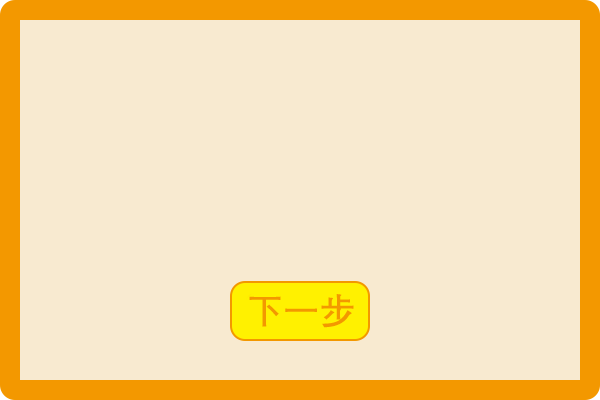
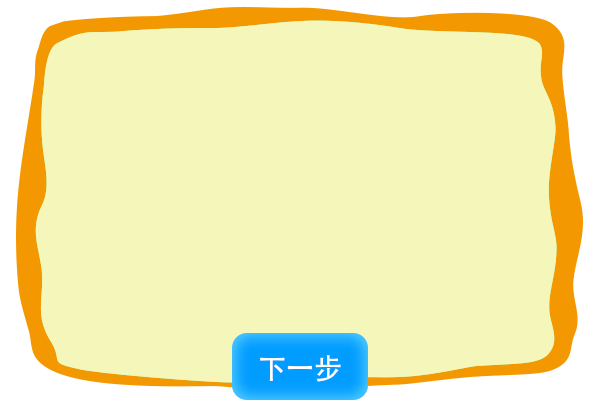
添加对话窗口npc头像

diff --git a/runtime/out/map.js b/runtime/out/map.js
@@ -83,9 +83,11 @@ var GameMap = /** @class */ (function (_super) {
                 this.roleContainer.addChild(monsterView);
             }
             if (item.npc == NPC) {
-                var npcView = new Bitmap(TILE_SIZE * item.x, TILE_SIZE * item.y, gjl);
-                var npcItem = new Npc(1, 'DDF'); // TODO
+                var npcView = new Bitmap(TILE_SIZE * item.x, TILE_SIZE * item.y, gaojianli);
+                var npcHead = new Bitmap(0, 0, gaojianli_head);
+                var npcItem = new Npc(1, '高渐离'); // TODO
                 npcItem.view = npcView;
+                npcItem.head = npcHead;
                 npcItem.x = item.x;
                 npcItem.y = item.y;
                 var key = item.x + '_' + item.y;
@@ -93,9 +95,11 @@ var GameMap = /** @class */ (function (_super) {
                 this.roleContainer.addChild(npcView);
             }
             if (item.npc == NPC2) {
-                var npcView = new Bitmap(TILE_SIZE * item.x, TILE_SIZE * item.y, gjl);
-                var npcItem = new Npc(2, 'DDF'); // TODO
+                var npcView = new Bitmap(TILE_SIZE * item.x, TILE_SIZE * item.y, yingzheng);
+                var npcHead = new Bitmap(0, 0, yingzheng_head);
+                var npcItem = new Npc(2, '嬴政'); // TODO
                 npcItem.view = npcView;
+                npcItem.head = npcHead;
                 npcItem.x = item.x;
                 npcItem.y = item.y;
                 var key = item.x + '_' + item.y;

diff --git a/runtime/src/map.ts b/runtime/src/map.ts
@@ -83,9 +83,11 @@ class GameMap extends DisplayObjectContainer {
             }
 
             if (item.npc == NPC) {
-                const npcView = new Bitmap(TILE_SIZE * item.x, TILE_SIZE * item.y, gjl);
-                const npcItem = new Npc(1, 'DDF'); // TODO
+                const npcView = new Bitmap(TILE_SIZE * item.x, TILE_SIZE * item.y, gaojianli);
+                const npcHead = new Bitmap(0, 0, gaojianli_head);
+                const npcItem = new Npc(1, '高渐离'); // TODO
                 npcItem.view = npcView;
+                npcItem.head = npcHead;
                 npcItem.x = item.x;
                 npcItem.y = item.y;
                 const key = item.x + '_' + item.y;
@@ -93,9 +95,11 @@ class GameMap extends DisplayObjectContainer {
                 this.roleContainer.addChild(npcView);
             }
             if (item.npc == NPC2) {
-                const npcView = new Bitmap(TILE_SIZE * item.x, TILE_SIZE * item.y, gjl);
-                const npcItem = new Npc(2, 'DDF'); // TODO
+                const npcView = new Bitmap(TILE_SIZE * item.x, TILE_SIZE * item.y, yingzheng);
+                const npcHead = new Bitmap(0, 0, yingzheng_head);
+                const npcItem = new Npc(2, '嬴政'); // TODO
                 npcItem.view = npcView;
+                npcItem.head = npcHead;
                 npcItem.x = item.x;
                 npcItem.y = item.y;
                 const key = item.x + '_' + item.y;

diff --git a/runtime/out/talkWindow.js b/runtime/out/talkWindow.js
@@ -18,7 +18,7 @@ var TalkWindow = /** @class */ (function (_super) {
         var _this = _super.call(this, x, y) || this;
         _this.count = 0;
         _this.view = new Bitmap(0, 0, talk_window);
-        _this.text = new TextField("", 100, 150, 40);
+        _this.text = new TextField("", 100, 200, 24);
         _this.addChild(_this.view);
         _this.addChild(_this.text);
         _this.addEventListener("onClick", function (eventData) {
@@ -41,6 +41,18 @@ var TalkWindow = /** @class */ (function (_super) {
         else {
             this.text.text = contents[this.count];
         }
+    };
+    TalkWindow.prototype.initNpcInfo = function () {
+        this.head = this.npc.head;
+        this.head.x = 60;
+        this.head.y = 60;
+        this.name = new TextField(this.npc.name, 180, 100, 20);
+        this.addChild(this.head);
+        this.addChild(this.name);
+    };
+    TalkWindow.prototype.setNpc = function (npc) {
+        this.npc = npc;
+        this.initNpcInfo();
     };
     TalkWindow.prototype.setMission = function (mission) {
         this.mission = mission;

diff --git a/runtime/src/talkWindow.ts b/runtime/src/talkWindow.ts
@@ -3,7 +3,14 @@
  */
 class TalkWindow extends DisplayObjectContainer {
     view: Bitmap;
+
+    head: Bitmap;
+
+    name: TextField;
+
     text: TextField;
+
+    npc: Npc;
 
     mission: Mission;
 
@@ -13,7 +20,7 @@ class TalkWindow extends DisplayObjectContainer {
         super(x, y);
 
         this.view = new Bitmap(0, 0, talk_window);
-        this.text = new TextField("", 100, 150, 40);
+        this.text = new TextField("", 100, 200, 24);
 
         this.addChild(this.view);
         this.addChild(this.text);
@@ -39,6 +46,20 @@ class TalkWindow extends DisplayObjectContainer {
         } else {
             this.text.text = contents[this.count];
         }
+    }
+
+    initNpcInfo() {
+        this.head = this.npc.head;
+        this.head.x = 60;
+        this.head.y = 60;
+        this.name = new TextField(this.npc.name, 180, 100, 20);
+        this.addChild(this.head);
+        this.addChild(this.name);
+    }
+
+    setNpc(npc: Npc) {
+        this.npc = npc;
+        this.initNpcInfo();
     }
 
     setMission(mission: Mission) {

diff --git a/runtime/out/game.js b/runtime/out/game.js
@@ -33,8 +33,14 @@ var wall_middle = new Image();
 wall_middle.src = './assets/wall_middle.png';
 var wall_right = new Image();
 wall_right.src = './assets/wall_right.png';
-var gjl = new Image();
-gjl.src = './assets/npc.png';
+var gaojianli = new Image();
+gaojianli.src = './assets/gaojianli.png';
+var gaojianli_head = new Image();
+gaojianli_head.src = './assets/gaojianli_head.png';
+var yingzheng = new Image();
+yingzheng.src = './assets/yingzheng.png';
+var yingzheng_head = new Image();
+yingzheng_head.src = './assets/yingzheng_head.png';
 var captain = new Image();
 captain.src = './assets/monster.png';
 var talk_window = new Image();

diff --git a/runtime/src/game.ts b/runtime/src/game.ts
@@ -22,8 +22,14 @@ var wall_middle = new Image();
 wall_middle.src = './assets/wall_middle.png';
 var wall_right = new Image();
 wall_right.src = './assets/wall_right.png';
-var gjl = new Image();
-gjl.src = './assets/npc.png';
+var gaojianli = new Image();
+gaojianli.src = './assets/gaojianli.png';
+var gaojianli_head = new Image();
+gaojianli_head.src = './assets/gaojianli_head.png';
+var yingzheng = new Image();
+yingzheng.src = './assets/yingzheng.png';
+var yingzheng_head = new Image();
+yingzheng_head.src = './assets/yingzheng_head.png';
 var captain = new Image();
 captain.src = './assets/monster.png';
 var talk_window = new Image();

diff --git a/runtime/out/command.js b/runtime/out/command.js
@@ -103,6 +103,7 @@ var TalkCommand = /** @class */ (function (_super) {
             var talkWindow_1 = new TalkWindow(100, 150);
             talkUIContainer.addChild(talkWindow_1);
             talkWindow_1.setMission(mission);
+            talkWindow_1.setNpc(this.npc);
             talkWindow_1.addEventListener("talkWiondowClose", function () {
                 talkUIContainer.deleteChild(talkWindow_1);
                 if (mission) {

diff --git a/runtime/src/command.ts b/runtime/src/command.ts
@@ -106,6 +106,7 @@ class TalkCommand extends Command {
             const talkWindow = new TalkWindow(100, 150);
             talkUIContainer.addChild(talkWindow);
             talkWindow.setMission(mission);
+            talkWindow.setNpc(this.npc);
             talkWindow.addEventListener("talkWiondowClose", () => {
                 talkUIContainer.deleteChild(talkWindow);
                 if (mission) {

diff --git a/index.js b/index.js
@@ -4,7 +4,7 @@ const url = require('url')
 
 function createWindow() {
     // Create the browser window.
-    win = new BrowserWindow({ width: 1900, height: 1000 })
+    win = new BrowserWindow({ width: 1920, height: 1000 })
 
     // 然后加载应用的 index.html。
     win.loadURL(url.format({

diff --git a/runtime/src/model.ts b/runtime/src/model.ts
@@ -189,6 +189,7 @@ class Npc {
     y: number = 0
     name: string = ''
     view: Bitmap
+    head: Bitmap
     id = 0;
 
     canAcceptMissions: Mission[] = []
